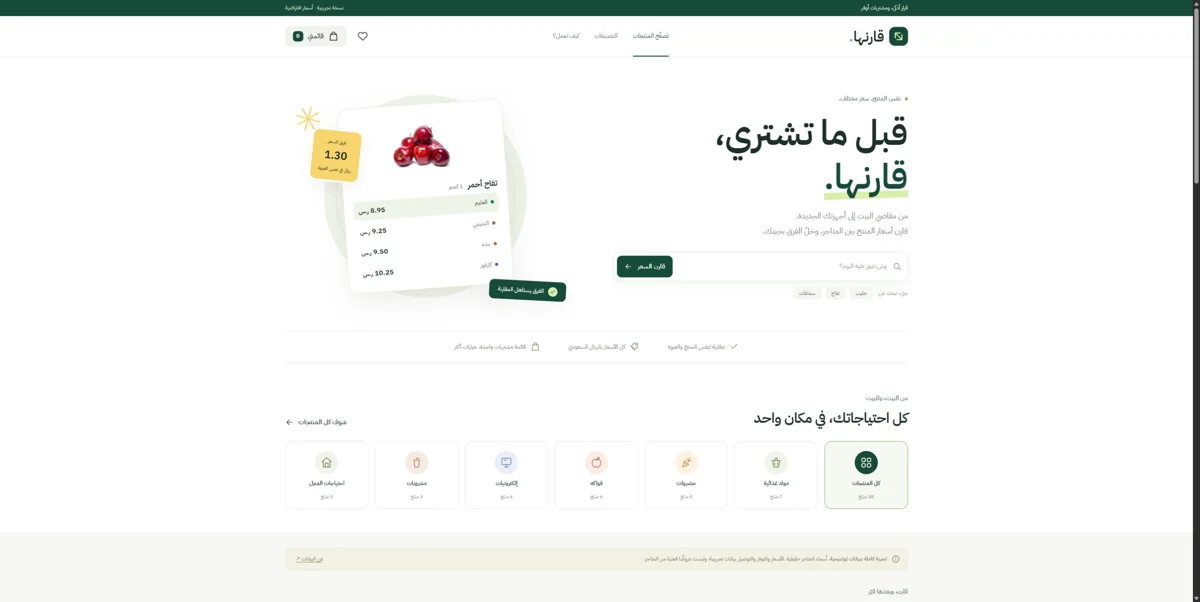
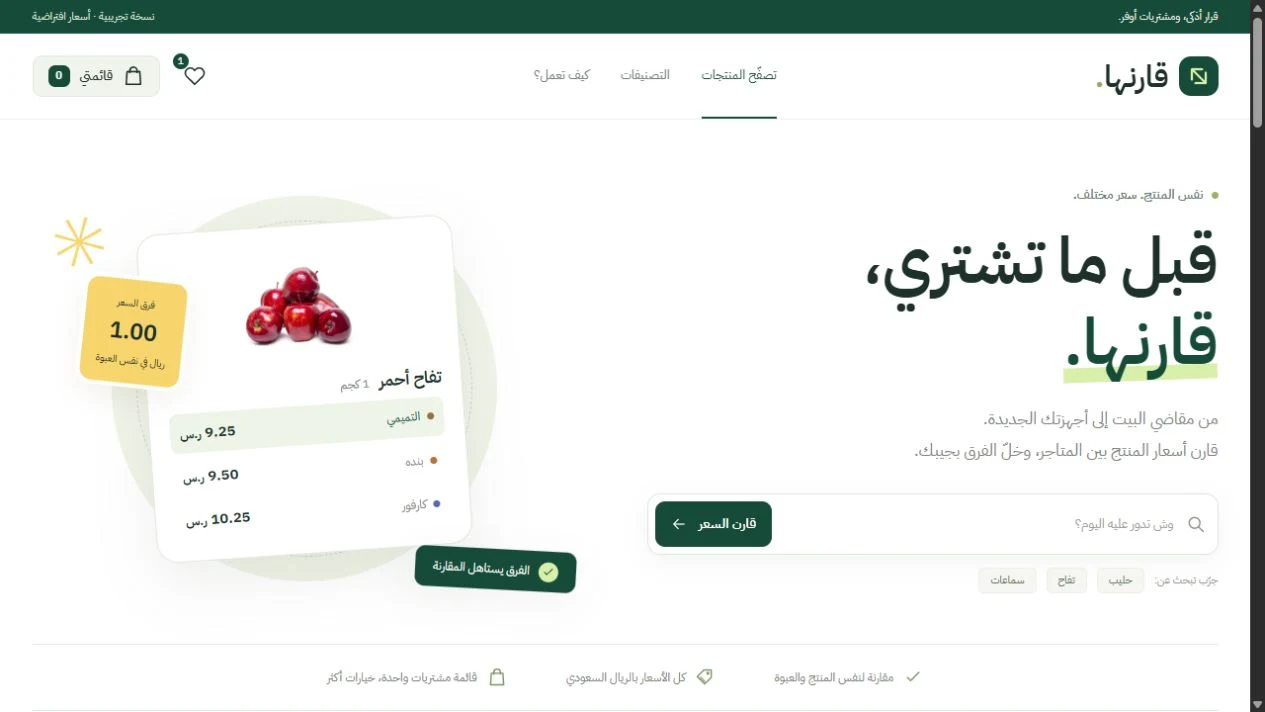
Refresh Qarenha showcase for expanded catalog and Amazon links

diff --git a/index.html b/index.html
@@ -81,14 +81,14 @@
         <div class="project-visual">
           <div class="image-label"><span>Qarenha</span><span>WEB APP</span></div>
           <picture>
-            <source srcset="qarenha-website.webp" type="image/webp">
-            <img src="qarenha-website.png" width="2529" height="1268" alt="Qarenha Arabic website with a Saudi store price comparison and product categories" loading="lazy" decoding="async">
+            <source srcset="qarenha-website.webp?v=20261021" type="image/webp">
+            <img src="qarenha-website.png?v=20261021" width="2529" height="1268" alt="Qarenha Arabic website with a Saudi store price comparison and product categories" loading="lazy" decoding="async">
           </picture>
         </div>
         <div class="project-copy">
           <p class="project-index">PROJECT 03 / WEB</p>
           <h3>Qarenha</h3>
-          <p>An Arabic website for comparing sample prices at four Saudi stores. Search products, save a shopping list, and compare totals in Saudi riyals.</p>
+          <p>An Arabic website with sample prices for Panda, Carrefour, and Tamimi. Search products, save a shopping list, and compare totals in Saudi riyals.</p>
           <ul class="tags" aria-label="Technologies"><li>JavaScript</li><li>HTML</li><li>CSS</li><li>RTL</li></ul>
           <div class="project-links">
             <a class="text-link" href="https://codebyabdulaziz.github.io/qarenha/" target="_blank" rel="noopener noreferrer">Open website</a>
@@ -97,8 +97,8 @@
           <details>
             <summary>A closer look <span aria-hidden="true">+</span></summary>
             <div class="detail-content">
-              <p>Filter by category and store, compare unit prices, and keep favorites in the browser. The layout works on phones and computers.</p>
-              <p>Prices, stock, and delivery fees are demo data. Store links let visitors check the real offers.</p>
+              <p>Browse 68 products in 12 categories. Filter products, compare unit prices, and save favorites in the browser. The layout works on phones and computers.</p>
+              <p>Prices, stock, and delivery fees for Panda, Carrefour, and Tamimi are demo data. Amazon.sa links open a product page or search results; Amazon prices and stock are not verified.</p>
             </div>
           </details>
         </div>
